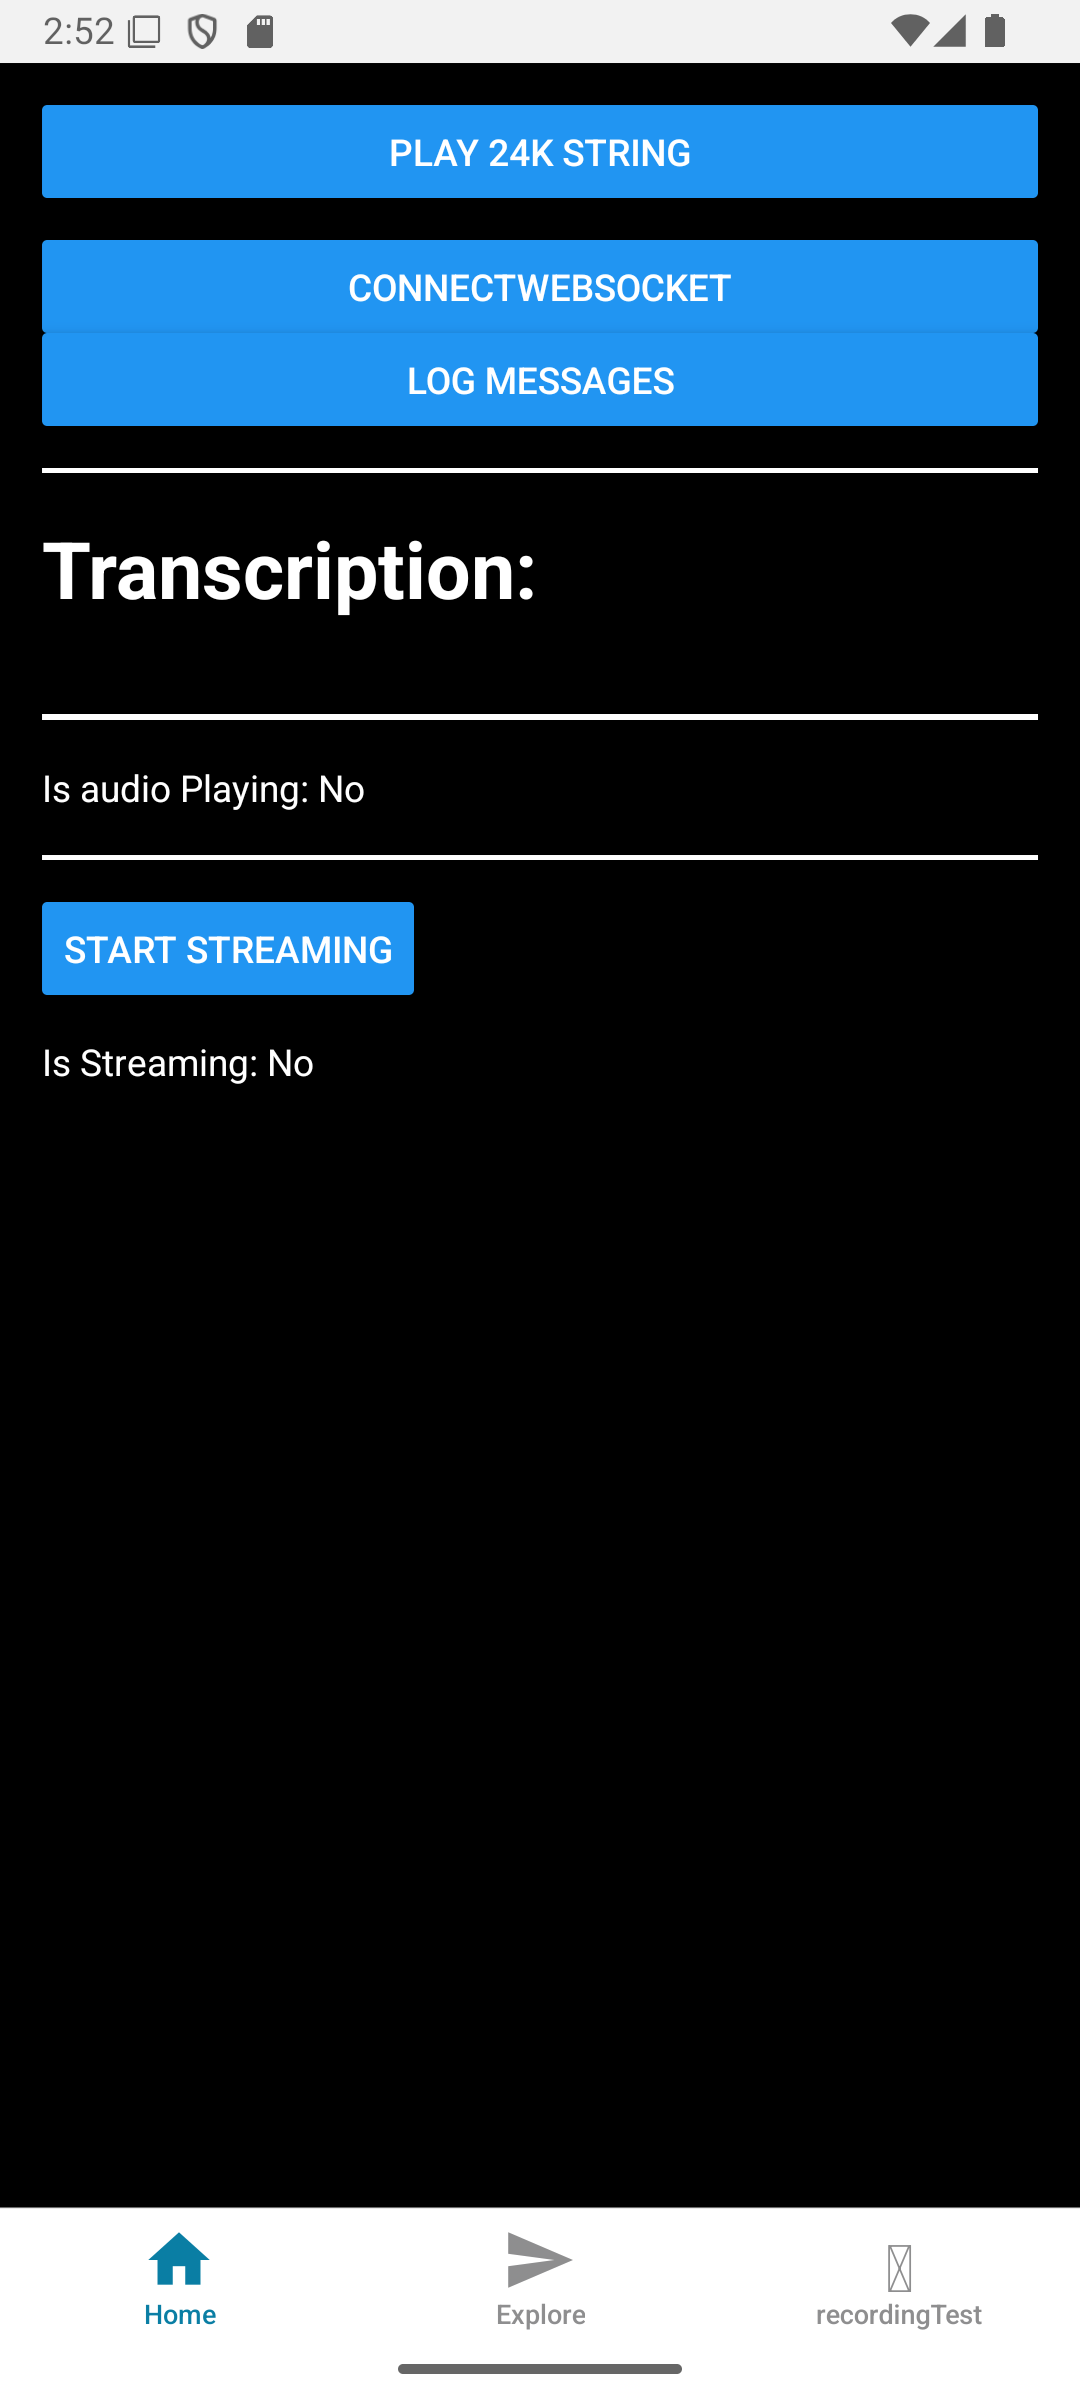
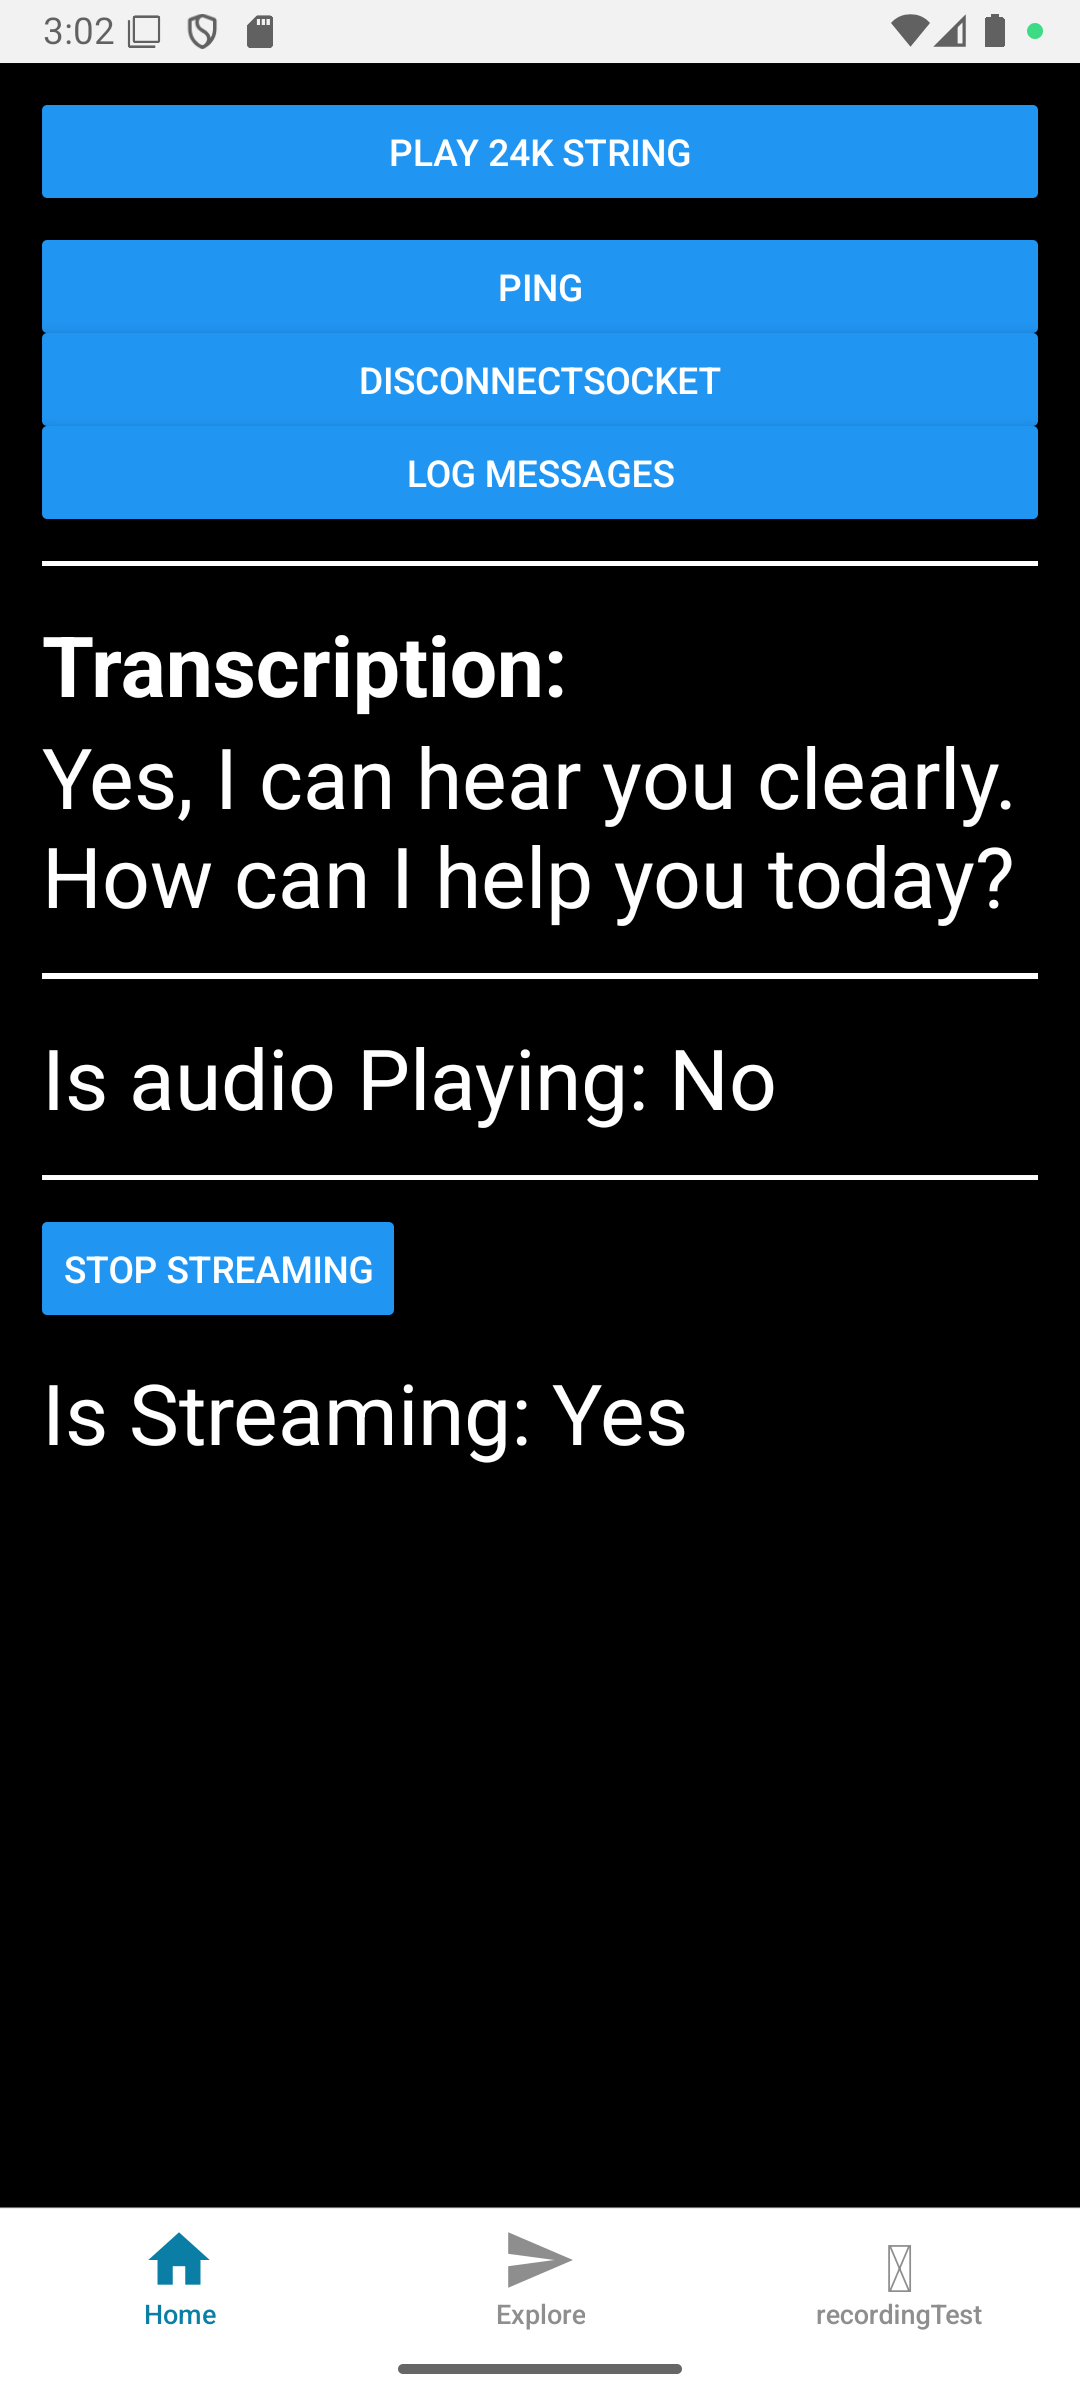
done

diff --git a/react-native-app/app/(tabs)/index.tsx b/react-native-app/app/(tabs)/index.tsx
@@ -107,7 +107,7 @@ const New = () => {
   );
 
   const { isStreaming, startStreaming, stopStreaming } = useAudioStreamer({
-    sampleRate: 16000, // e.g., 16kHz - // TODO : The documentation doesn't specify the exact requirements for this. It tried 16K and 24K. I think 16k is better.
+    sampleRate: 24000, // e.g., 16kHz - // TODO : The documentation doesn't specify the exact requirements for this. It tried 16K and 24K. I think 16k is better.
     interval: 250, // emit every 250 milliseconds
     onAudioReady: onAudioStreamerChunk,
   });
@@ -171,7 +171,9 @@ const New = () => {
           <View>
             {isWebSocketConnected && <Button onPress={ping} title="Ping" />}
             {isWebSocketConnecting ? (
-              <Text style={{ color: "white" }}>Connecting...</Text>
+              <Text style={{ color: "white", fontSize: 32 }}>
+                Connecting...
+              </Text>
             ) : isWebSocketConnected ? (
               <Button onPress={disconnectSocket} title="disconnectSocket" />
             ) : (
@@ -188,16 +190,21 @@ const New = () => {
           <HR />
 
           <View>
-            <Text style={{ color: "white" }} className=" text-[30px] font-bold">
+            <Text
+              style={{ color: "white", fontSize: 32 }}
+              className=" text-[30px] font-bold"
+            >
               Transcription:
             </Text>
-            <Text style={{ color: "white" }}>{transcription}</Text>
+            <Text style={{ color: "white", fontSize: 32 }}>
+              {transcription}
+            </Text>
           </View>
 
           <HR />
 
           <View className=" flex-row flex items-center">
-            <Text style={{ color: "white" }}>
+            <Text style={{ color: "white", fontSize: 32 }}>
               Is audio Playing: {isAudioPlaying ? "Yes" : "No"}
             </Text>
 
@@ -225,7 +232,7 @@ const New = () => {
               <Button onPress={playAudioRecorderChunks} title="Play Stream" />
             )}
           </View>
-          <Text style={{ color: "white" }}>
+          <Text style={{ color: "white", fontSize: 32 }}>
             Is Streaming: {isStreaming ? "Yes" : "No"}
           </Text>
         </View>
